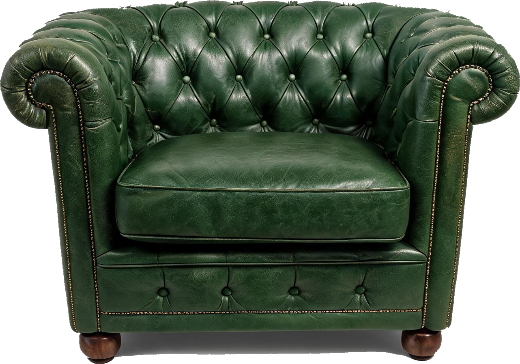
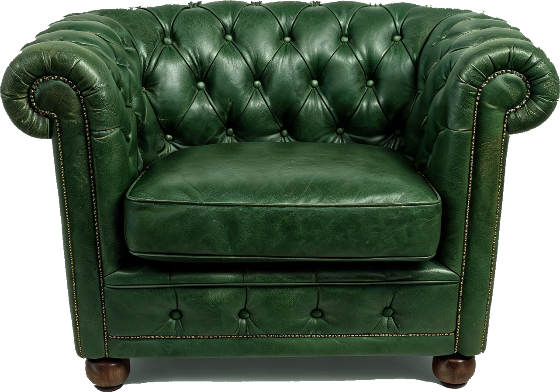
Clean cutouts, correct corners, and the room's own colour in the leather
Three fixes to the photographed chairs. The matte now clears enclosed
background pockets -- connected regions of studio grey the border flood
could never reach, gone only when sizeable, so the leather's own pale
highlights survive (a first, greedier cut ate them and left the chairs
moth-eaten). The corner mirrors were backwards -- the source
three-quarter faces lower-right, not lower-left -- so the top corner
chairs faced away from the table; swapped, every chair now faces the
felt. And the room's palette is baked into the pixels themselves, the
red channel pulled down a step toward the felt's green, so the
photographs and the table share one light instead of two.

The chairs also run a size larger, per the reference arrangement.

diff --git a/app/src/components/poker/SeatPod.tsx b/app/src/components/poker/SeatPod.tsx
@@ -136,7 +136,7 @@ export function SeatPod({
         {/* An open seat is the chair itself, waiting. The label hangs OUTSIDE
             the layout box: counted in, it pushed every chair half a label off
             its anchor and the table read lopsided. */}
-        <SeatChair anchor={anchor} width={d.avatar + (compact ? 46 : 92)} />
+        <SeatChair anchor={anchor} width={d.avatar + (compact ? 54 : 108)} />
         {/* The invitation: the one interface object on an empty chair. */}
         <span
           aria-hidden
@@ -440,7 +440,7 @@ export function SeatPod({
         >
           <SeatChair
             anchor={anchor}
-            width={size + (anchor === 0 ? (compact ? 82 : 148) : compact ? 42 : 76)}
+            width={size + (anchor === 0 ? (compact ? 92 : 170) : compact ? 50 : 90)}
           />
         </div>
         {avatar}
@@ -509,9 +509,9 @@ function CircleAvatar({ pubkey, size }: { pubkey: string; size: number }) {
 const CHAIR_VIEWS = [
   { src: "/seats/chair-rear.png", flip: false, depth: 1.16, light: 0.86 },
   { src: "/seats/chair-rear34.png", flip: false, depth: 1.0, light: 0.8 },
-  { src: "/seats/chair-front34.png", flip: true, depth: 0.86, light: 0.92 },
-  { src: "/seats/chair-front.png", flip: false, depth: 0.84, light: 0.95 },
   { src: "/seats/chair-front34.png", flip: false, depth: 0.86, light: 0.92 },
+  { src: "/seats/chair-front.png", flip: false, depth: 0.84, light: 0.95 },
+  { src: "/seats/chair-front34.png", flip: true, depth: 0.86, light: 0.92 },
   { src: "/seats/chair-rear34.png", flip: true, depth: 1.0, light: 0.8 },
 ] as const;
 
